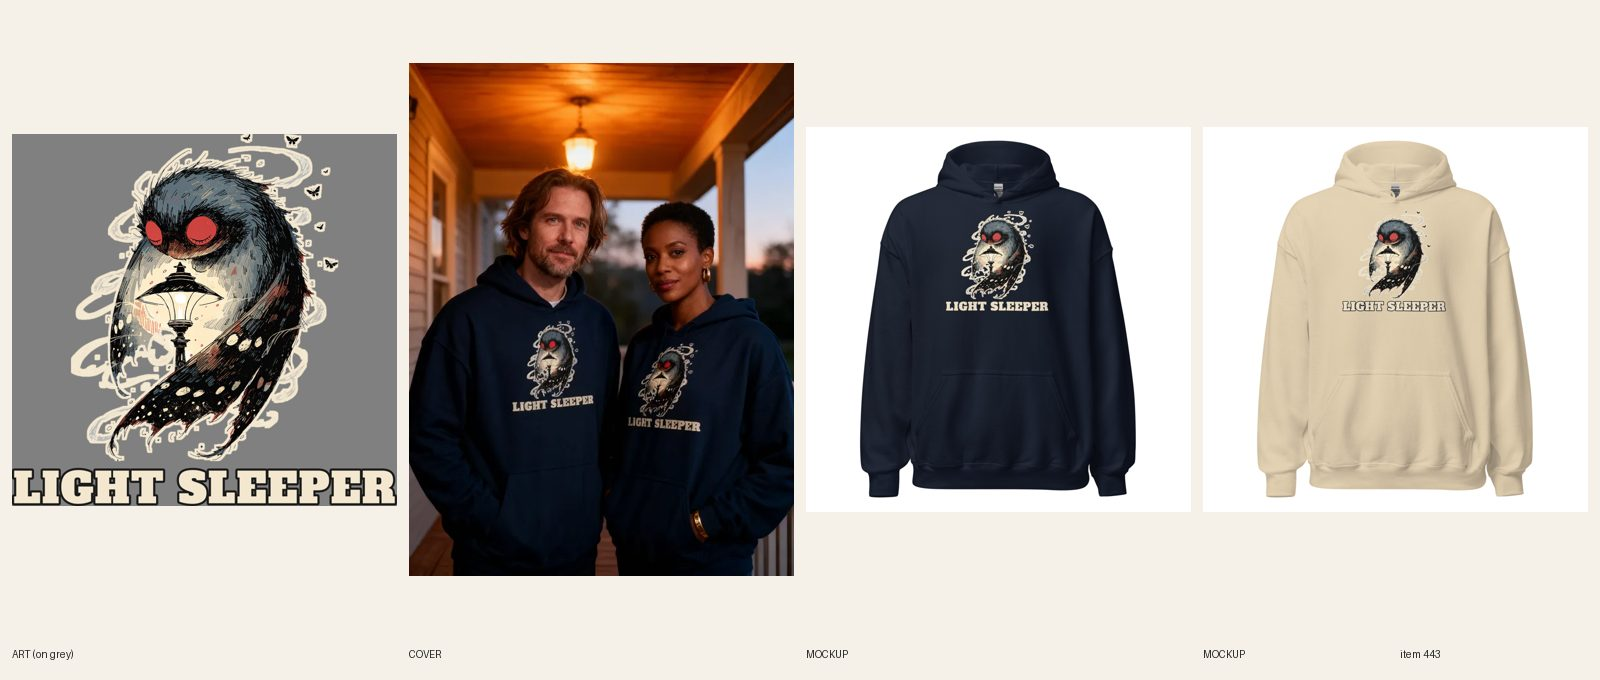
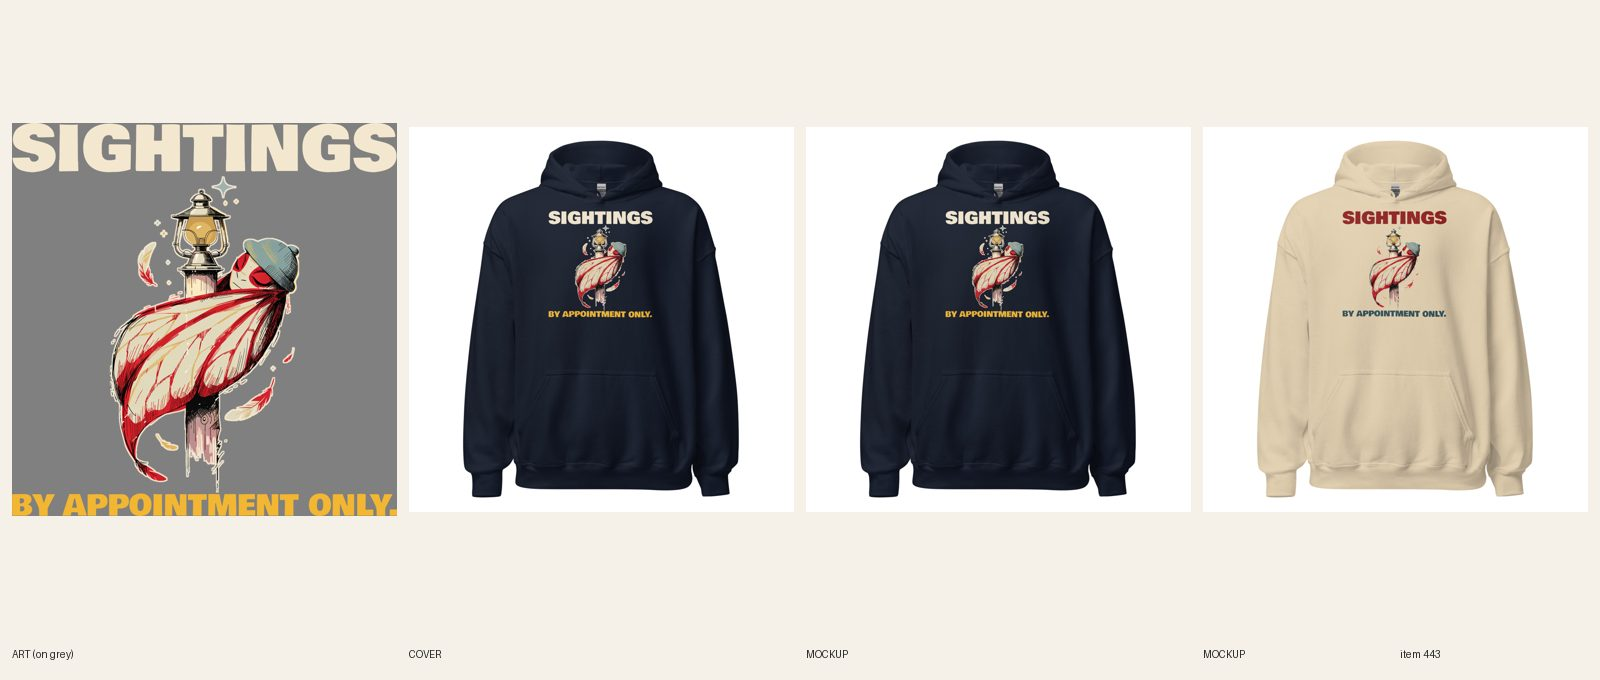
[E] review 443 redid #443 Unisex Mothman hoodie (line + type: SIGHTINGS BY APPOINTMENT ONLY., new sleeping Mothman art, Navy + Sand files, 12/12 synced, copy updated, plain product shot). REVIEW. fal $0.04.

Changed region(s): [[0.0, 0.0926, 0.5, 0.8647], [0.5938, 0.3088, 0.6562, 0.4941], [0.8438, 0.3088, 0.9062, 0.4632]]

diff --git a/docs/pipeline/443-hoodie-mothman-light-sleeper.md b/docs/pipeline/443-hoodie-mothman-light-sleeper.md
@@ -1,4 +1,4 @@
-status: REDO
+status: REVIEW
 lane: E
 type: new
 id: 443
@@ -29,3 +29,4 @@ kd: 31
 - 2026-10-17 19:49 UTC builder [E]: REVIEW. Art: Recraft v4 picture only (1 call), words set with compose-print.py (Alfa Slab cream with dark outline). Dark wings sink into Navy, so the art carries a thin cream keyline (new compose-print 'halo' option, 16 px), not a shape behind it. Print 3217x3105, FW 1500 TOP 0 (about 9.7 in tall, clear of the pouch). R6.2: no ring/panel/box, real-font line. Printful file 1088439168, sync product 482474904 12/12. Mockups Navy + Sand fronts + back attached per color; read OK at phone size. Copy re-checked against the art (wings wrapped, eyes shut, moths; lettering is slab capitals not hand-drawn). FAQ 5 Qs 40-60 words, order-by Dec 8. Cover: registry 639+640 (man and woman, porch at dusk), seedream 1 attempt, both prints fully legible, hoods visible, hands in pockets. fal ~$0.12. audit-local PASS. design-crops/variant-photo-audit need the published page: rerun after publish.
 - 2026-10-17 20:16 UTC director: APPROVED, LIVE. ACTIVE + published Online Store, Headless, Google; cohesion-audit --handle PASS.
 - 2026-10-18 17:22 UTC director: QUALITY RESET grade C (new line + type), REDO. The product stays ACTIVE (same handle, URL, title keyword). 1. Line (R3.12, quality-reset 'Lines'): "LIGHT SLEEPER": Pun needs Mothman/moth-to-light backstory; groan-level. Write 5 candidates, keep the one a stranger laughs at in 3 seconds without backstory; kill lines that only describe the picture; if none of the 5 is funny, PARK it. 2. Quality reset type bar (docs/backlog/quality-reset.md, 'The new bar'): headline at least 90% of the art width, heavy, colors pulled from the art; second line at least 45% of the headline's height, never a thin script on a dark or mid garment; use the lettering as a shape (arch, stacked lockup, words breaking into the art), not a plain bar above and a script line below; no font used on more than 1 in 6 of the last 30 designs. 3. Keep the art if it carries the new line, else one new illustration (R4/R5). New print means a new cover per R6.10, copy line one rewritten for the new joke (R8.3), and a fresh review sheet (R7.7). While quality-reset.md says PAUSED, only lane A builds, and only the samples step 2 names.
+- 2026-10-20 04:08 UTC builder [E]: REDO 443 (C grade, line + type) done on the existing product (stays ACTIVE, handle unchanged). 5 candidates: "SIGHTINGS BY APPOINTMENT ONLY."; "Do Not Disturb The Legend"; "Light Sleeper" (old, needs backstory); "Off The Clock Since 1966"; "Cryptid, Not Morning Person". Kept SIGHTINGS / BY APPOINTMENT ONLY. (deadpan cryptid line, 3 seconds). One new Recraft call ($0.04): Mothman asleep around a porch lamp in a nightcap, no words. Bowlby One, both lines full print width. Navy file 1090151588 (cream + mustard, thin cream halo); Sand file 1090151761 (dark red + slate teal, dark fill: light file logged for Sand). FW 1500 TOP 0 (10.2 in tall; the tall narrow art stays at about 49% of the print width so the print does not reach the pouch seam; the art reads small on the shirt, the director may judge), 12/12 synced on the right file per color, back logo kept. Fronts replaced in place, alts updated, title/SEO/copy/FAQs rewritten. Cover: handle added to retired-covers.json (plain product shot). Phone-size read OK on both. audit --handle PASS 0 warn; astro build OK. fal $0.04. Sheet docs/review/443.jpg.

diff --git a/docs/intake-log.md b/docs/intake-log.md
@@ -1,4 +1,5 @@
 2026-10-20 03:47 UTC — [H] Helper run: audit 607 products, 0 errors, 30 warnings (no scripted ERRORs to fix). Category check: 0 products without a Shopify category. Site check: 3 newest LIVE pages (#618, #578, #548) all 200. Stuck-work check: nothing BUILDING, all locks under 2h. Telegram: no new messages. Announcement bar already on holiday line. Daily summary not due (before 12:00 UTC). Lock released.
+2026-10-20 04:08 UTC — [E] Builder run: redid #443 Unisex Mothman hoodie (line + type: SIGHTINGS BY APPOINTMENT ONLY., new sleeping Mothman art, Navy + Sand files, 12/12 synced, copy updated, plain product shot). REVIEW. fal $0.04.
 2026-10-20 03:57 UTC — [E] Builder run: redid #409 Men's Trucker heavyweight hoodie (line + type: MY ETA IS AFTER PIE., new semi + diner + pie art, Storm Blue + Sandstone files, 12/12 synced, copy updated, plain product shot). REVIEW. fal $0.04.
 2026-10-20 04:04 UTC — [B] Builder run: redid #440 Men's Pig oversized hoodie (line + type: OUT OF OFFICE. / IN THE MUD., new pig art, Fraunces, Navy + Dust light files, 12/12 synced); retitled #362 and #404. REVIEW. fal $0.04.
 RUNNING lane B since 2026-10-20 03:28 UTC
